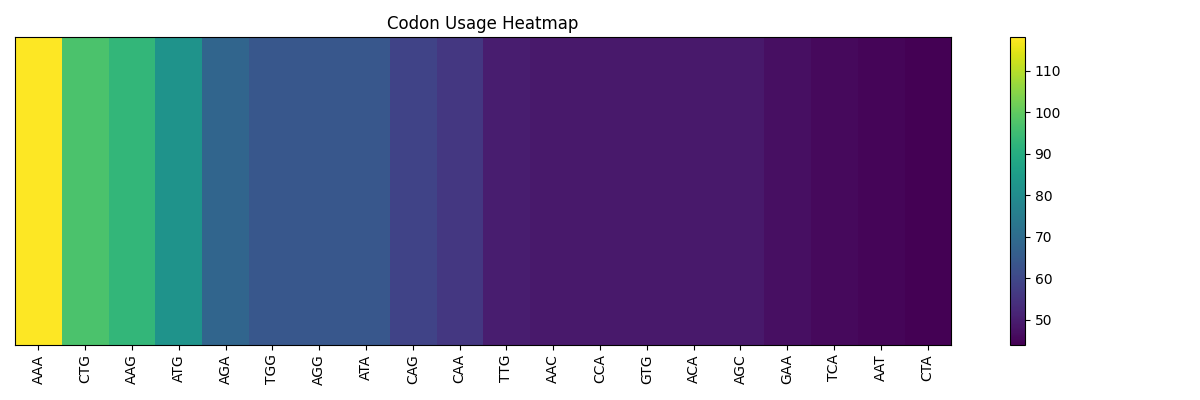
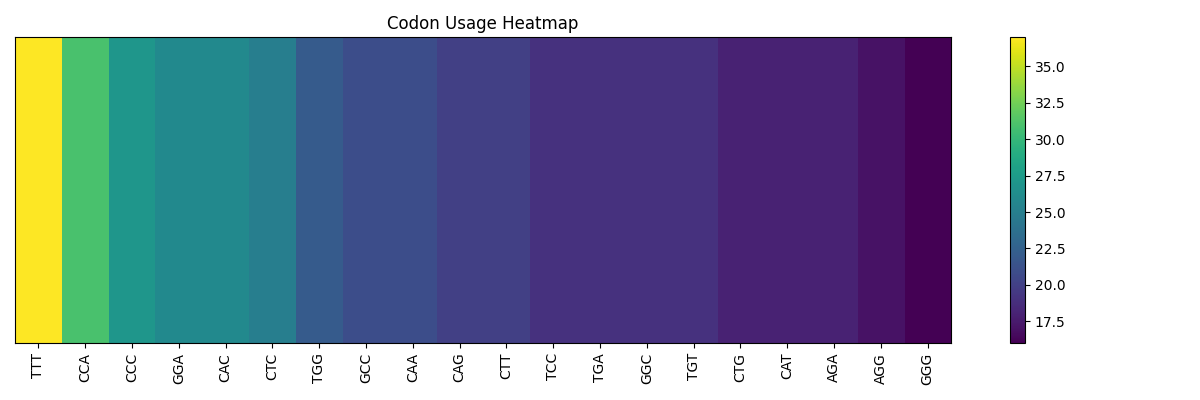
made some print changes and changed from BRAC1 to tp53

diff --git a/Minor2/genome_pipelines/main.py b/Minor2/genome_pipelines/main.py
@@ -10,14 +10,12 @@ from visualizer import generate_all_plots
 import os
 
 # Default parameters (given in assignment)
-ACCESSION  = "NM_007294"      # BRCA1 mRNA
+ACCESSION  = "NM_000546"
 DB         = "nucleotide"
 MIN_ORF    = 90
 OUTPUT_DIR = "pipeline_output"
 
 def main():
-
-    print("\n=== GENOME ANALYSIS PIPELINE ===\n")
     # Create output folder if it doesn't exist
     if not os.path.exists(OUTPUT_DIR):
         os.makedirs(OUTPUT_DIR)
